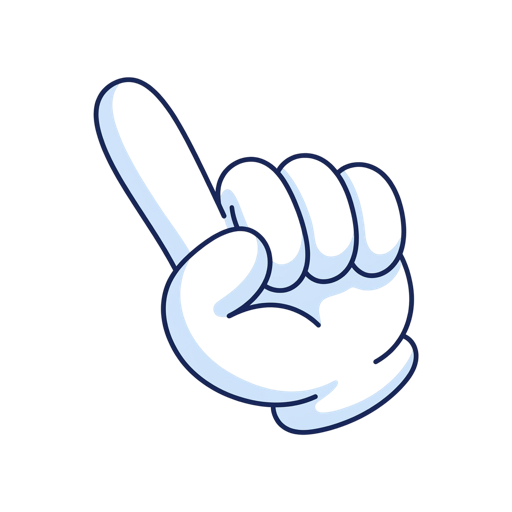
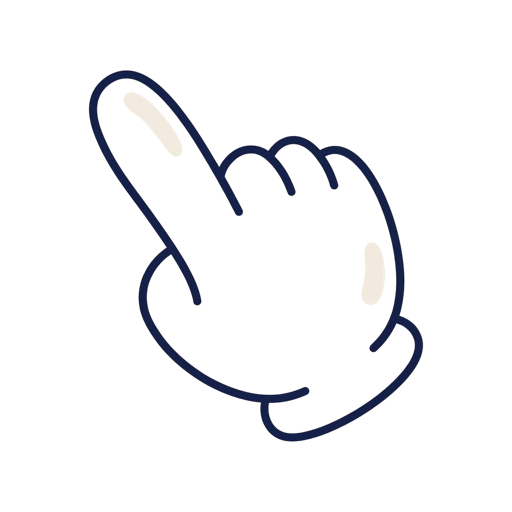
Gouden Tellen: hulphandje is nu het witte handje (variant 3) uit Magnific (controle overgeslagen: back-upbranch)
Claude-Session: https://claude.ai/code/session_019HGXxT1wyk7NJR8Z8Kb8k1

Changed region(s): [[0.1562, 0.125, 0.8438, 0.875]]

diff --git a/src/components/les/vlakken/squla-tellen-gouden-vlak.tsx b/src/components/les/vlakken/squla-tellen-gouden-vlak.tsx
@@ -128,7 +128,7 @@ function maakScene(Phaser: PhaserModule, rustig: boolean) {
         if (!img || !this.sys?.isActive()) return;
         if (!this.textures.exists("stg-hand-magnific")) this.textures.addImage("stg-hand-magnific", img);
         this.nieuweHand = true;
-        this.hand.setTexture("stg-hand-magnific").setOrigin(0.25, 0.19);
+        this.hand.setTexture("stg-hand-magnific").setOrigin(0.2, 0.17);
         if (this.handI != null) {
           const i = this.handI;
           this.handI = null;
